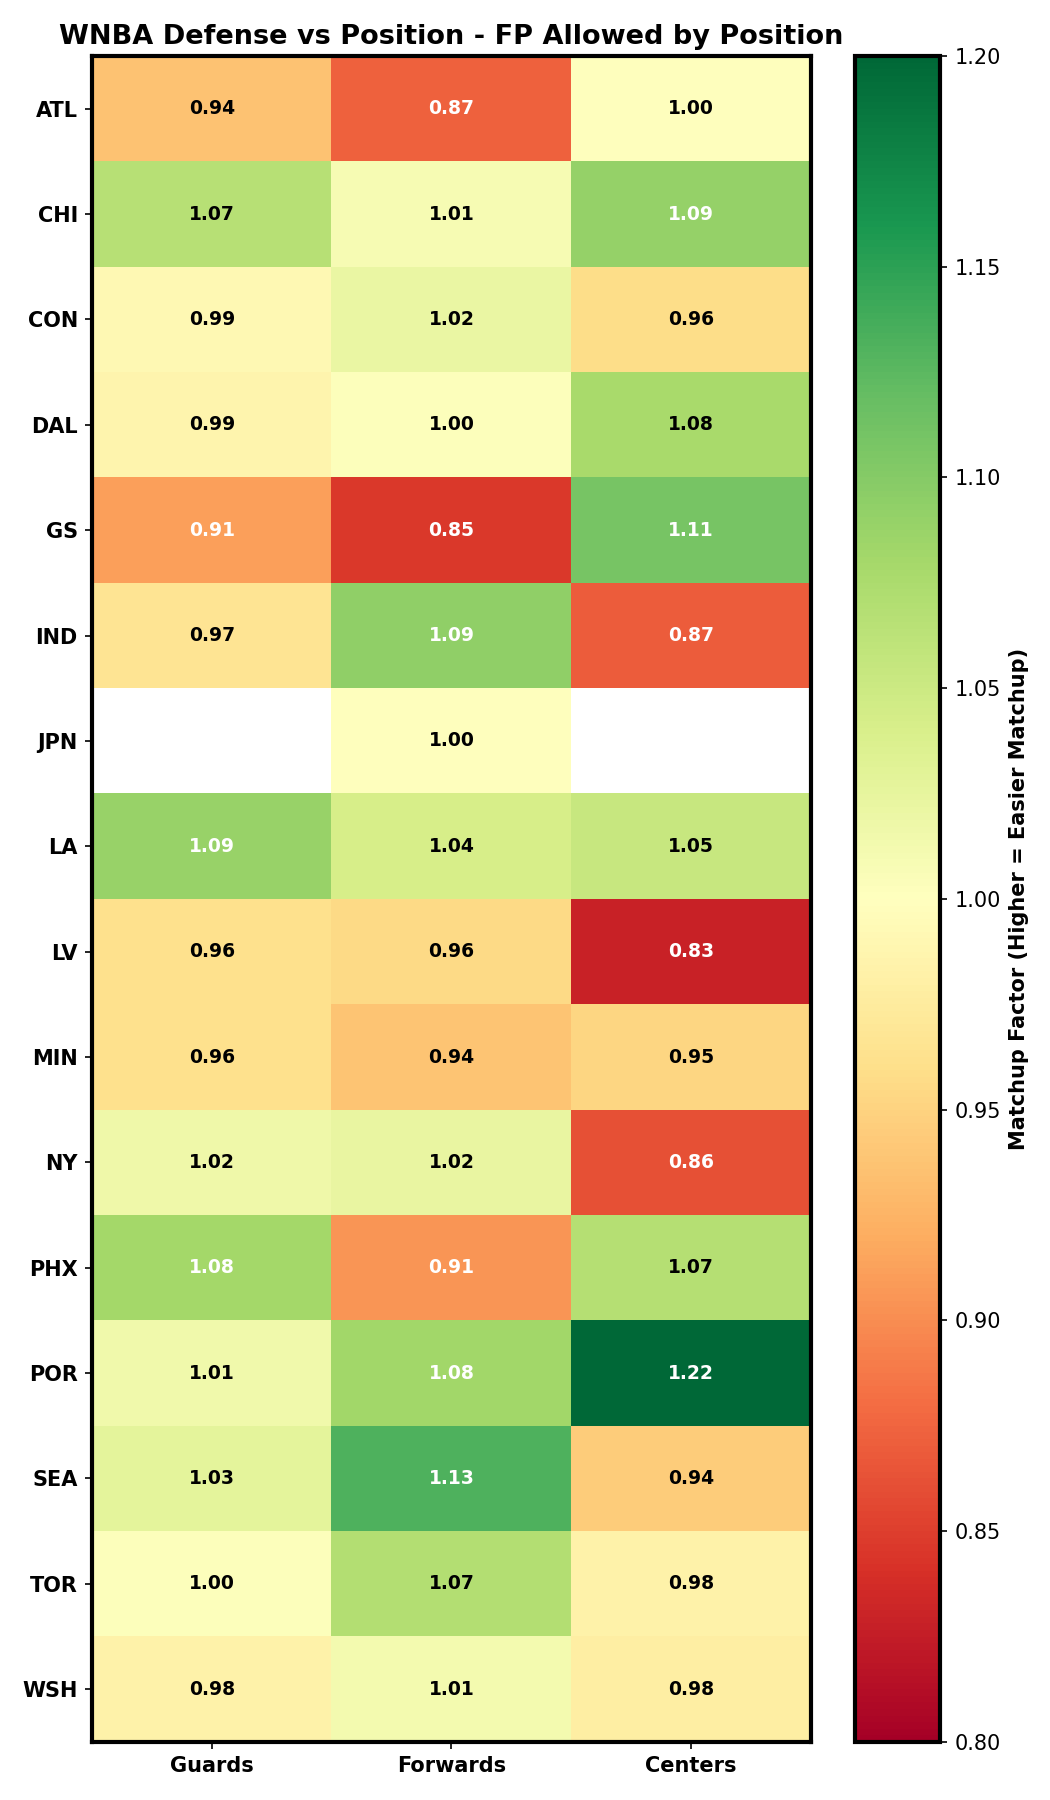
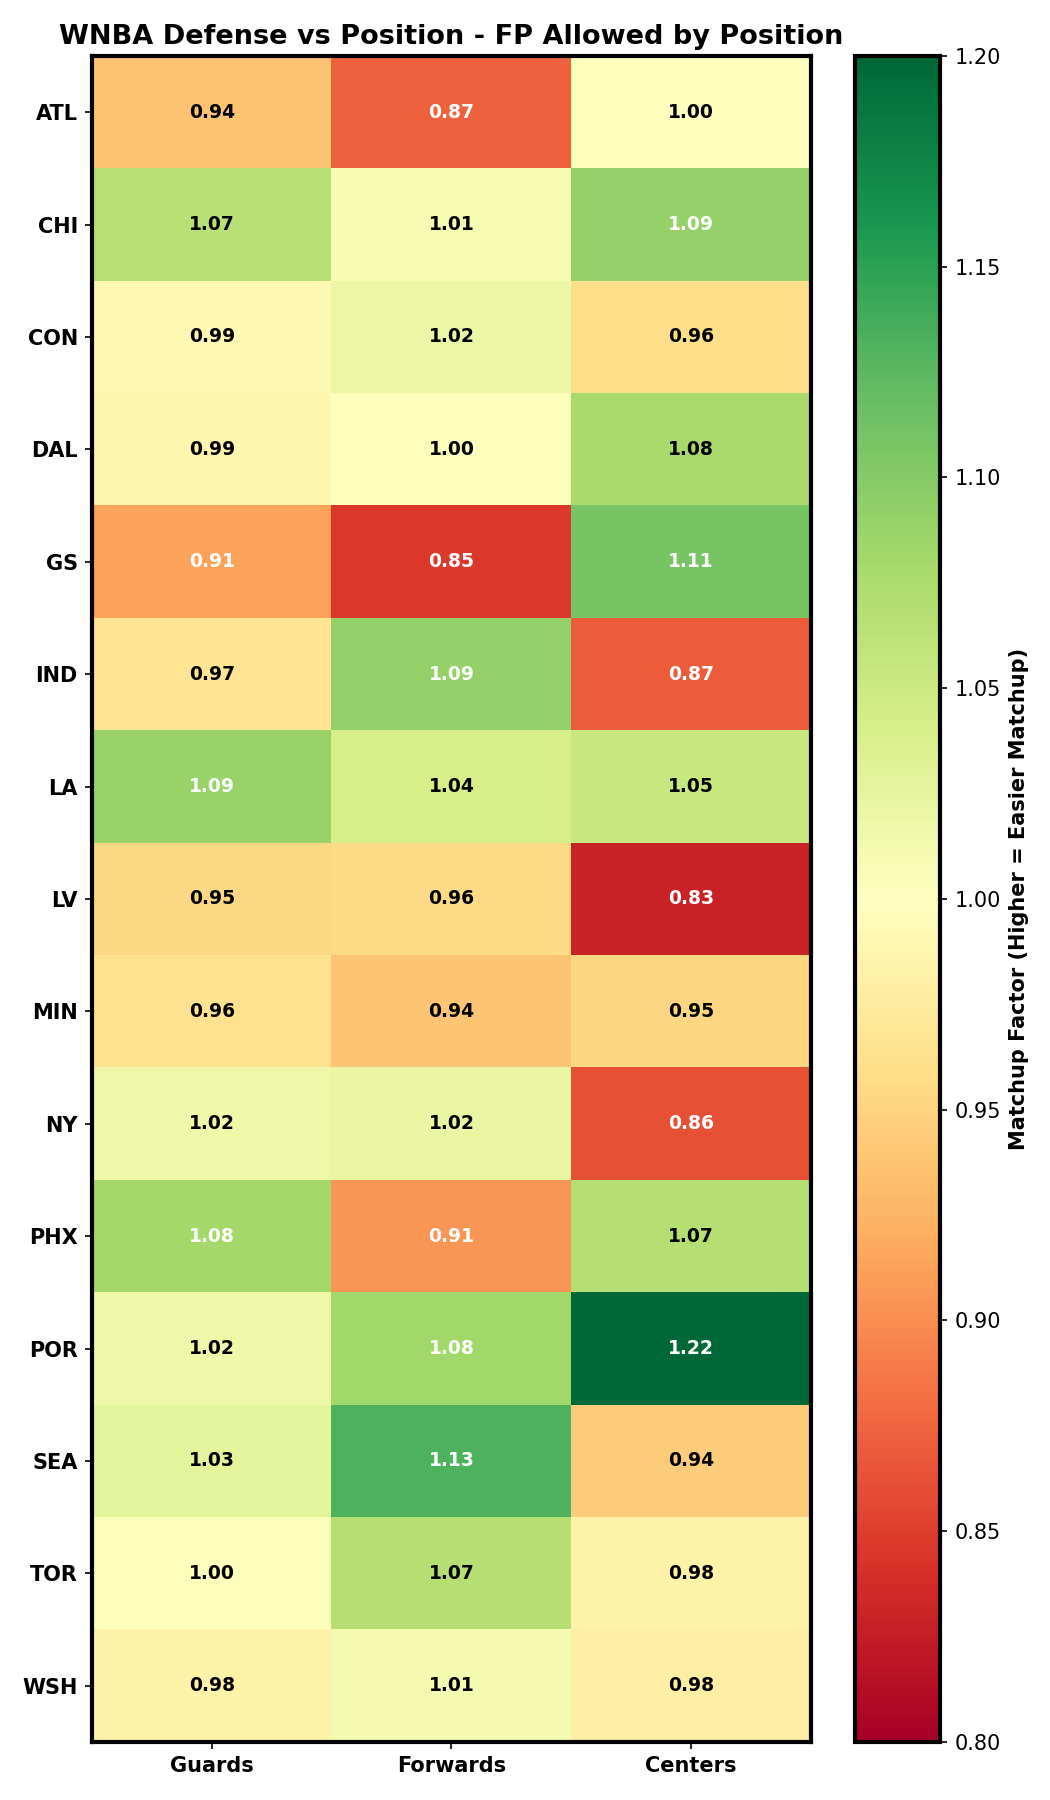
Fix chart gallery: remove bogus JPN exhibition team from WNBA DVP heatmaps via explicit franchise whitelist (2026-07-25 05:30)

diff --git a/build_wnba_projections.py b/build_wnba_projections.py
@@ -28,6 +28,15 @@ DB = "dfs_nba.db"
 # prop stat code -> the column family we computed in wnba_player_stats / logs
 STAT_MAP = {"PTS": "pts", "REB": "reb", "AST": "ast", "3PM": "fg3m"}
 
+# The real WNBA franchises (ESPN abbreviations as they appear in the game
+# logs). Exhibition opponents around All-Star weekend (national teams like
+# JPN, NIGER) leak into the logs' team AND opp columns, so any whitelist
+# derived from the data itself gets poisoned // keep this list explicit.
+WNBA_FRANCHISES = (
+    "ATL", "CHI", "CON", "DAL", "GS", "IND", "LA", "LV",
+    "MIN", "NY", "PHX", "POR", "SEA", "TOR", "WSH",
+)
+
 
 def norm(name):
     s = unicodedata.normalize("NFKD", str(name)).encode("ascii", "ignore").decode()
@@ -45,16 +54,16 @@ def _mean(xs):
 def build_dvp(cur):
     cur.execute("DROP TABLE IF EXISTS wnba_dvp")
     cur.execute("CREATE TABLE wnba_dvp (team TEXT, stat TEXT, factor REAL, PRIMARY KEY (team, stat))")
-    # Valid WNBA opponents = the real franchises our players play for. Preseason
-    # exhibitions vs national teams (e.g. NIGER, JPN) leak into the opp column;
-    # restricting to actual franchises keeps those out of the DVP ratings.
-    valid_teams = {
-        r[0] for r in cur.execute(
-            "SELECT DISTINCT team FROM wnba_player_game_logs WHERE team != ''"
-        ).fetchall()
-    }
+    # Valid WNBA opponents = the real franchises only. Exhibitions vs national
+    # teams (e.g. NIGER, JPN around All-Star weekend) leak into BOTH the team
+    # and opp columns of the game logs, so deriving the whitelist from the data
+    # self-poisons (JPN showed up as a "team" in the DVP heatmaps with garbage
+    # factors). Use the explicit franchise list instead.
+    valid_teams = WNBA_FRANCHISES
     rows = cur.execute(
-        "SELECT opp, pts, reb, ast, fg3m FROM wnba_player_game_logs WHERE opp != ''"
+        "SELECT opp, pts, reb, ast, fg3m FROM wnba_player_game_logs "
+        "WHERE opp != '' AND team IN (%s)" % ",".join("?" * len(WNBA_FRANCHISES)),
+        tuple(WNBA_FRANCHISES),
     ).fetchall()
     factors = {}
     for skey_idx, skey in enumerate(["pts", "reb", "ast", "fg3m"], start=1):
@@ -88,11 +97,8 @@ def build_dvp_position(cur):
     cur.execute("CREATE TABLE wnba_dvp_position "
                 "(team TEXT, position TEXT, stat TEXT, factor REAL, "
                 "PRIMARY KEY (team, position, stat))")
-    valid_teams = {
-        r[0] for r in cur.execute(
-            "SELECT DISTINCT team FROM wnba_player_game_logs WHERE team != ''"
-        ).fetchall()
-    }
+    # Same explicit whitelist as build_dvp // see the exhibition-leak note there.
+    valid_teams = WNBA_FRANCHISES
     pos_map = {}
     for name, pos in cur.execute(
             "SELECT player_name, position FROM wnba_player_stats"):
@@ -101,7 +107,9 @@ def build_dvp_position(cur):
             pos_map[name] = p
     rows = cur.execute(
         "SELECT player_name, opp, pts, reb, ast, fg3m, fp "
-        "FROM wnba_player_game_logs WHERE opp != ''"
+        "FROM wnba_player_game_logs "
+        "WHERE opp != '' AND team IN (%s)" % ",".join("?" * len(WNBA_FRANCHISES)),
+        tuple(WNBA_FRANCHISES),
     ).fetchall()
     idx = {"pts": 2, "reb": 3, "ast": 4, "fg3m": 5, "fp": 6}
     factors = {}
